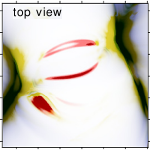
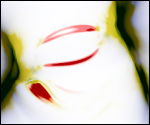
Changed teaser image to fit size of other images on the highlings page.

diff --git a/highlights/index.php b/highlights/index.php
@@ -15,7 +15,7 @@ Currently, we may present the following highlights:
 	<tr valign="bottom">
 		<td align="center"><a href="/samples/turbulence/helical-MHDturb32-4procs/"><img src="/samples/turbulence/helical-MHDturb32-4procs/bz_thumb.jpg" width="150" height="125" border="0" alt="t=200-1700"></a></td>
 		<td align="center"><a href="/samples/ism/"><img src="/samples/ism/rho.jpg" width="150" height="125" border="0" alt="plasma density"></a></td> 
-		<td align="center"><a href="/samples/corona/"><img src="/samples/corona/corona_EUV-emission.png" width="150" height="150" border="0" alt="coronal loops EUV emission"></a></td>
+		<td align="center"><a href="/samples/corona/"><img src="/samples/corona/corona_EUV-emission.png" width="150" height="125" border="0" alt="coronal loops EUV emission"></a></td>
 	</tr>
 	<tr valign="top">
 		<td align="center"><a href="/samples/turbulence/helical-MHDturb32-4procs/">Helical MHD Dynamo</a> [AB]</td>
